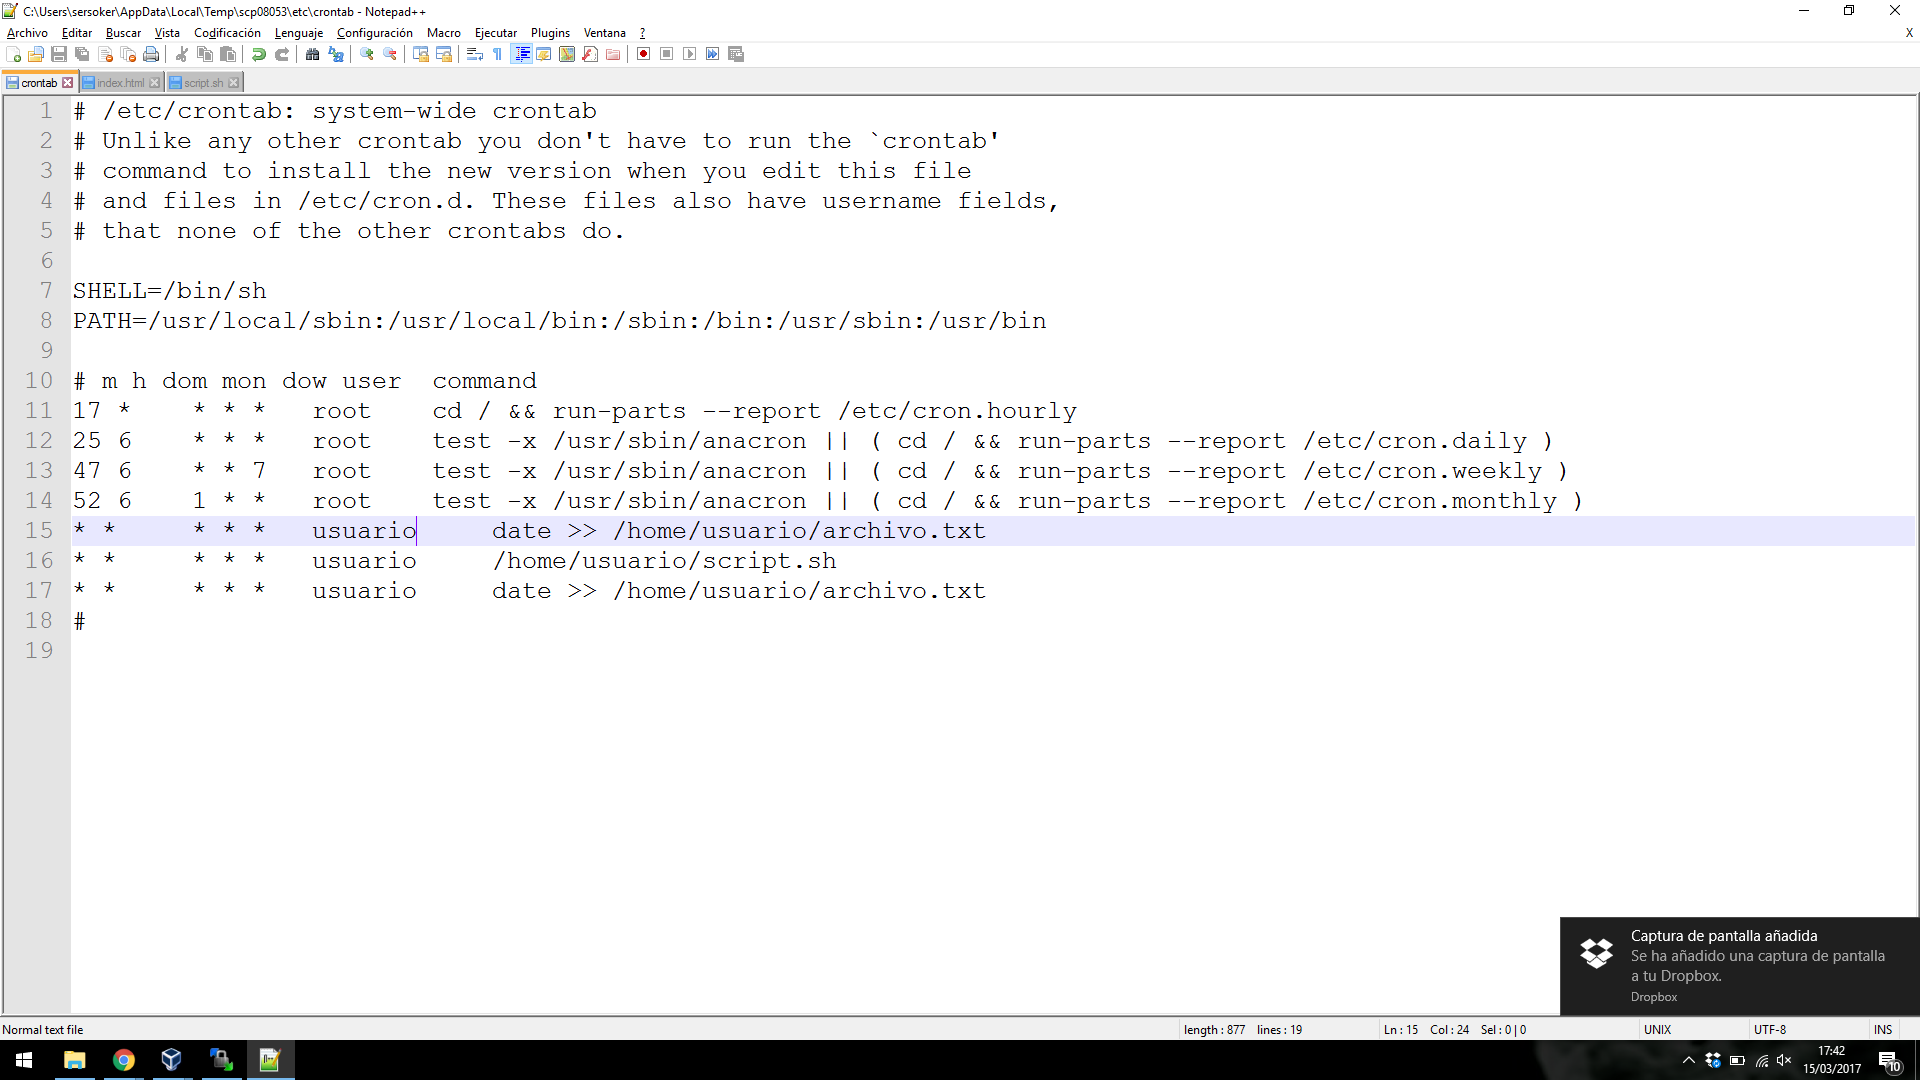
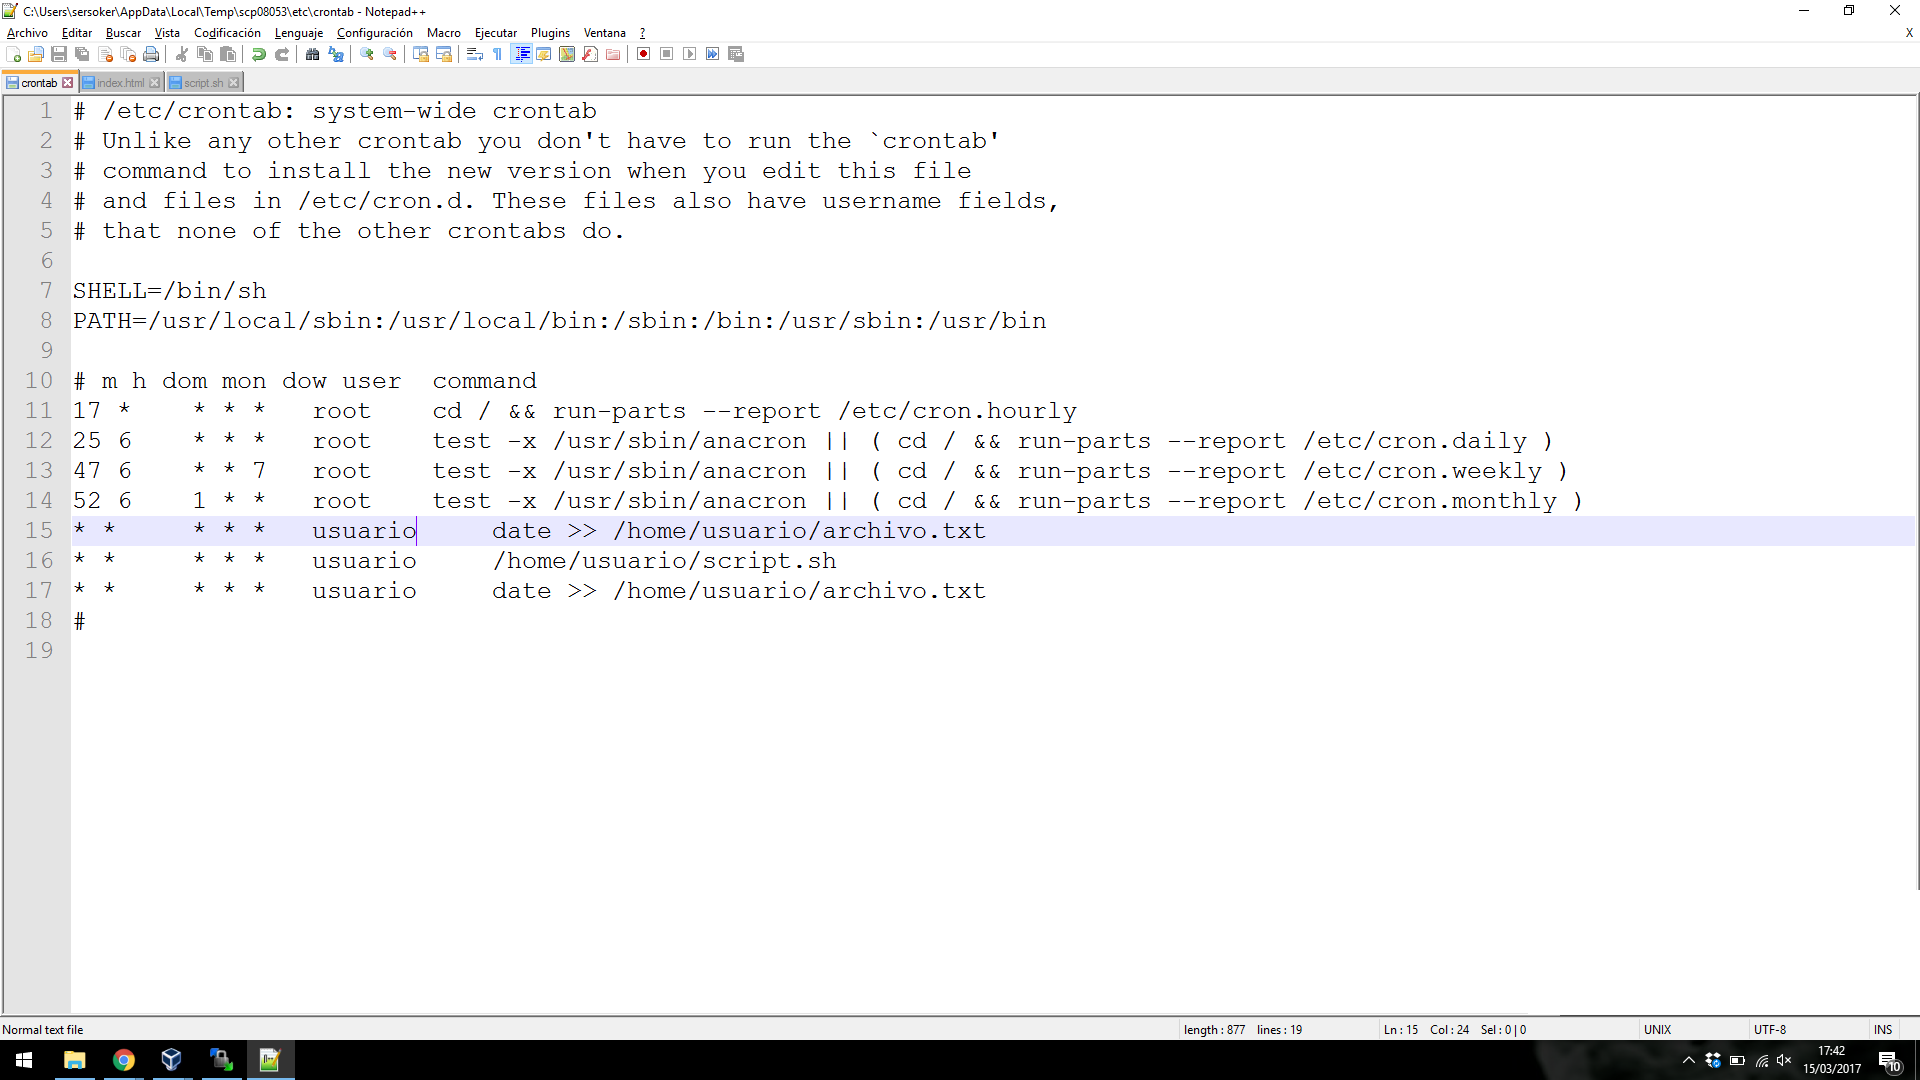
Documentación

Changed region(s): [[0.8125, 0.825, 1.0, 0.9472]]

diff --git a/Prácticas/P2/documentacion.md b/Prácticas/P2/documentacion.md
@@ -1,0 +1,47 @@
+# Práctica 2. Clonar la información de un sitio web
+## Autores:
+Javier Martínez Montilla
+Bryan Moreno Picamán
+
+**1. Instalamos rsync en las dos máquinas virtuales.**
+
+![Captura1](https://github.com/Javiyo90/GradoInformatica-SWAP/blob/master/practicas/practica2/capturas/C01%20Instalando%20rsync.png?raw=true)
+
+**2. Capturas de pantalla del servidor web funcionando en ambas máquinas virtuales.**
+
+![Captura2](https://github.com/Javiyo90/GradoInformatica-SWAP/blob/master/practicas/practica2/capturas/C02%20.png?raw=true)
+![Captura3](https://github.com/Javiyo90/GradoInformatica-SWAP/blob/master/practicas/practica2/capturas/C03.png?raw=true)
+
+**3. Prueba de rsync manual**
+
+![Captura4](https://github.com/Javiyo90/GradoInformatica-SWAP/blob/master/practicas/practica2/capturas/C04%20Usando%20rsync.png?raw=true)
+
+**4. Captura de la sincronización realizada**
+
+![Captura5](https://github.com/Javiyo90/GradoInformatica-SWAP/blob/master/practicas/practica2/capturas/C05.png?raw=true)
+
+![Captura6](https://github.com/Javiyo90/GradoInformatica-SWAP/blob/master/practicas/practica2/capturas/C06.png?raw=true)
+
+**5. Generación de claves públicas y privadas en máquina de copia para ssh**
+
+![Captura7](https://github.com/Javiyo90/GradoInformatica-SWAP/blob/master/practicas/practica2/capturas/C07%20generando%20claves.png?raw=true)
+
+**6. Copia de la clave pública en servidor principal y prueba de acceso**
+
+![Captura8](https://github.com/Javiyo90/GradoInformatica-SWAP/blob/master/practicas/practica2/capturas/C09.png?raw=true)
+
+**7. Captura de estado de las máquinas antes de la prueba de automatización con crontab**
+
+![Captura9](https://github.com/Javiyo90/GradoInformatica-SWAP/blob/master/practicas/practica2/capturas/C10.png?raw=true)
+
+**8. Captura del script.sh que contiene el comando rsync para la sincronización**
+
+![Captura10](https://github.com/Javiyo90/GradoInformatica-SWAP/blob/master/practicas/practica2/capturas/C11.png?raw=true)
+
+**9. Captura del archivo crontab indicando la llamada al script**
+
+![Captura11](https://github.com/Javiyo90/GradoInformatica-SWAP/blob/master/practicas/practica2/capturas/C12.png?raw=true)
+
+**10. Resultado de la automatización**
+
+![Captura12](https://github.com/Javiyo90/GradoInformatica-SWAP/blob/master/practicas/practica2/capturas/C13.png?raw=true)
